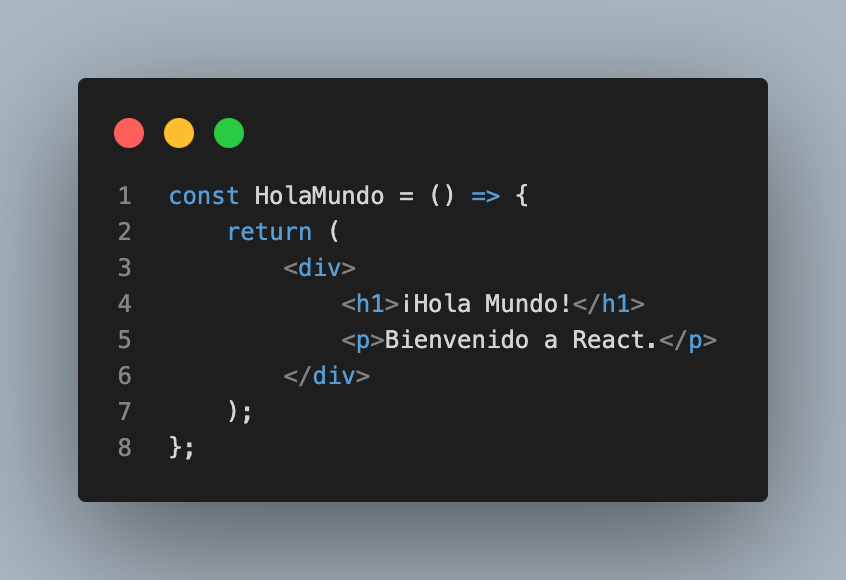
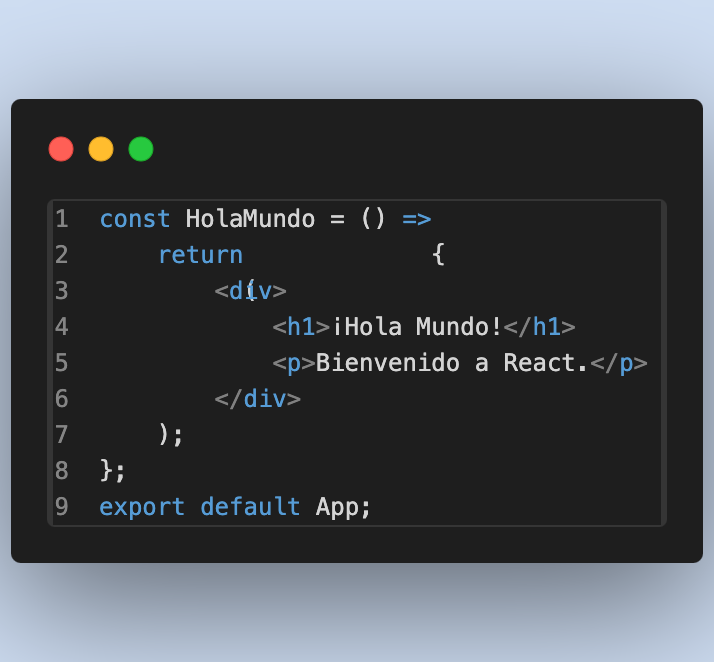
agregada imagen ejercicio 0

diff --git a/src/components/MainContent.js b/src/components/MainContent.js
@@ -65,16 +65,7 @@ const MainContent = () => {
                     <p>
                         <strong>Ejemplo de JSX:</strong>
                     </p>
-                    <pre><code>{`
-    const HolaMundo = () => {
-      return (
-        <div>
-          <h1>¡Hola Mundo!</h1>
-          <p>Bienvenido a React.</p>
-        </div>
-      );
-    };
-    `}</code></pre>
+                    <img src="https://jbermejog.github.io//actividad1-dar/ejemplo1.png" alt="Ejemplo de Hola Mundo en React" />
                     <p>
                         <strong>TypeScript</strong> es un superconjunto de JavaScript que añade tipado estático y otras características avanzadas. Aunque no es obligatorio, su uso en proyectos React mejora la calidad del código y facilita la detección de errores en tiempo de compilación.
                     </p>
